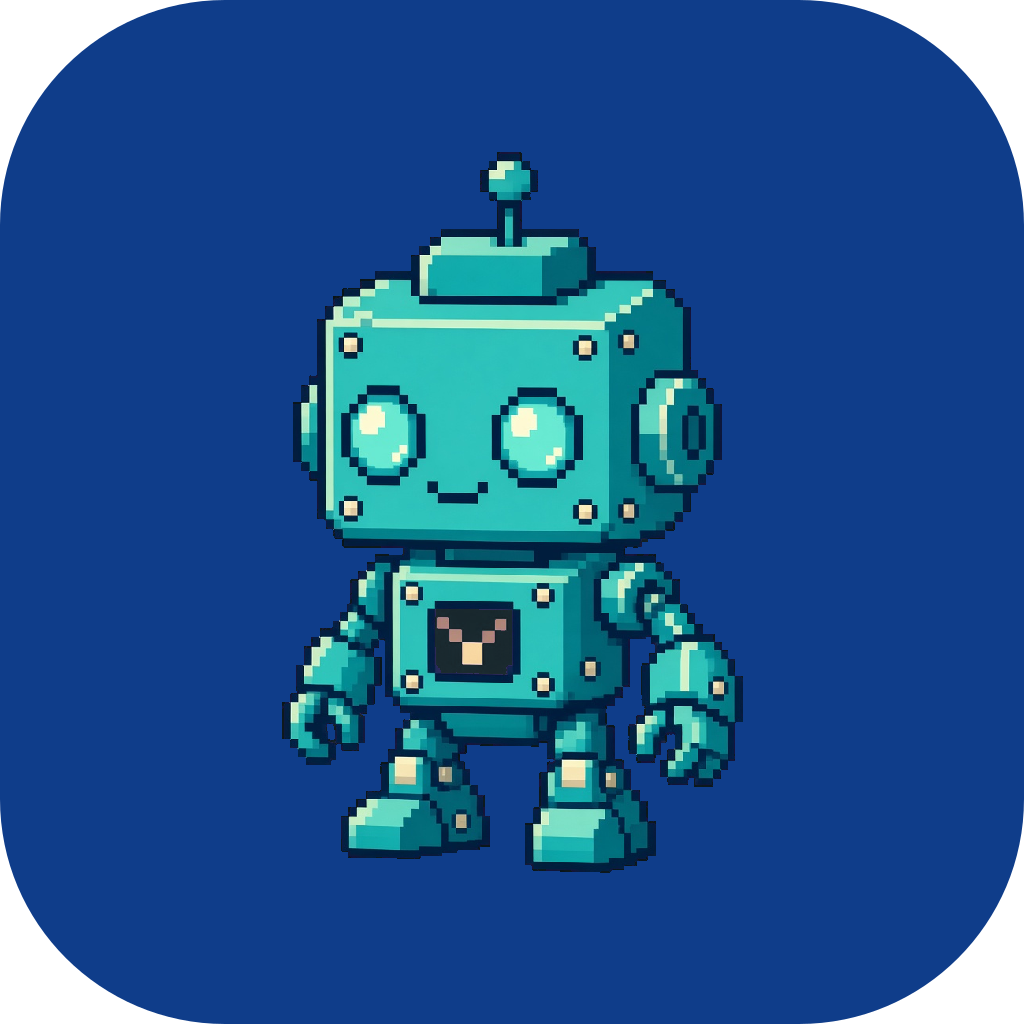
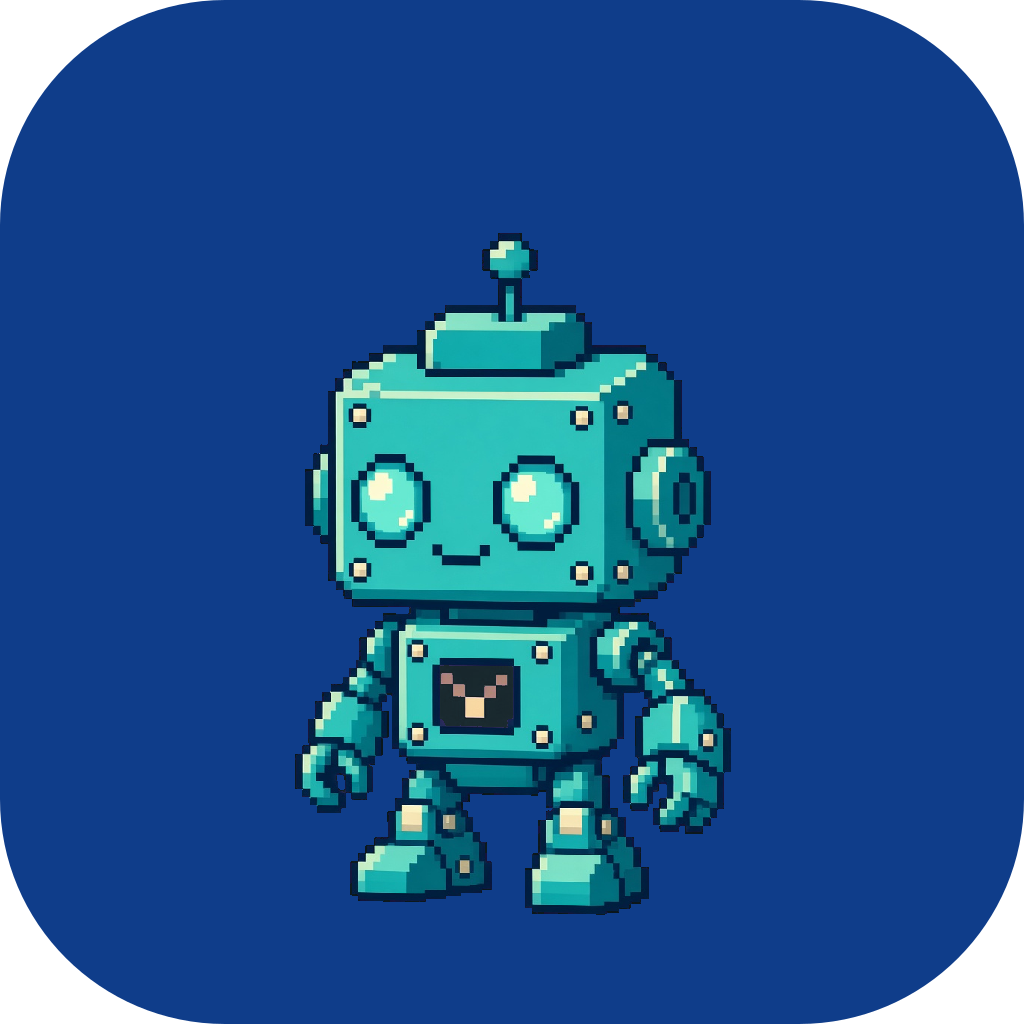
Add the beanie: first hat layer, fitted to every character via anchors
Grok-drawn beanie keyed off magenta, tight-cropped so its bottom edge is the
brim, defringed. New hat layer (none 60 / beanie 40) sits on the character
hat anchor at 1.1x width sunk 28%. Characters now draw at 72% of the canvas
nudged down 6% for headroom; anchor overlays clip to the canvas. Page shows
anchor layers and the 'none' trait. 24 unique combos.

Changed region(s): [[0.25, 0.125, 0.75, 0.9062]]

diff --git a/site/app.js b/site/app.js
@@ -60,13 +60,13 @@ function updatePreview() {
 }
 for (const layer of info.layers) {
   const block = el("div", { class: "layer-block" },
-    el("h3", {}, title(layer.name), el("small", {}, `${layer.fit}${layer.fit === "contain" ? ` · ${Math.round(layer.scale * 100)}%` : ""} · ${layer.traits.length} trait${layer.traits.length === 1 ? "" : "s"}`)),
+    el("h3", {}, title(layer.name), el("small", {}, `${layer.fit}${layer.fit === "contain" ? ` · ${Math.round(layer.scale * 100)}%` : layer.fit === "anchor" ? ` · on ${layer.on} ${layer.anchor}` : ""} · ${layer.traits.length} trait${layer.traits.length === 1 ? "" : "s"}`)),
     el("div", { class: "chips", role: "group", "aria-label": `${title(layer.name)} traits` },
       layer.traits.map((t) => el("button", {
         type: "button", class: "chip", "data-layer": layer.name, "data-trait": t.key, "aria-pressed": "false",
         onclick: () => { pick[layer.name] = t.key; updatePreview(); },
       },
-        el("img", { src: t.file, alt: "", width: 44, height: 44, loading: "lazy", class: layer.fit === "contain" ? "clear" : "" }),
+        t.file ? el("img", { src: t.file, alt: "", width: 44, height: 44, loading: "lazy", class: layer.fit !== "fill" ? "clear" : "" }) : el("span", { class: "chip-none", "aria-hidden": "true" }, "–"),
         el("span", {}, el("span", { class: "name" }, t.name), el("br"), el("span", { class: "odds" }, `${pct(t.pct)} · w${t.weight}`))))));
   controls.append(block);
 }
@@ -87,18 +87,19 @@ info.layers.forEach((layer, i) => {
       el("h3", {}, `${i + 1}. ${title(layer.name)}`),
       el("span", {}, `fit: ${layer.fit}`),
       layer.fit === "contain" ? el("span", {}, `scale: ${Math.round(layer.scale * 100)}% of canvas`) : "",
+      layer.fit === "anchor" ? el("span", {}, `sits on ${layer.on} anchor "${layer.anchor}" · width ×${layer.widthScale} · overlap ${Math.round(layer.overlap * 100)}%`) : "",
       el("span", {}, `total weight: ${layer.totalWeight}`)),
     el("table", {},
       el("thead", {}, el("tr", {}, el("th", {}, ""), el("th", {}, "Trait"), el("th", {}, "Key"), el("th", { class: "num" }, "Weight"), el("th", { class: "num" }, "Odds"), el("th", {}, ""), el("th", {}, "Size"), el("th", {}, "File"))),
       el("tbody", {}, layer.traits.map((t) => el("tr", {},
-        el("td", {}, el("img", { src: t.file, alt: "", width: 32, height: 32, loading: "lazy", class: layer.fit === "contain" ? "clear" : "" })),
+        el("td", {}, t.file ? el("img", { src: t.file, alt: "", width: 32, height: 32, loading: "lazy", class: layer.fit !== "fill" ? "clear" : "" }) : ""),
         el("td", {}, t.name),
         el("td", {}, el("code", {}, t.key)),
         el("td", { class: "num" }, t.weight),
         el("td", { class: "num" }, pct(t.pct)),
         el("td", {}, el("span", { class: "bar" }, el("i", { style: `width:${t.pct}%` }))),
         el("td", {}, t.dims ? `${t.dims.width}×${t.dims.height}` : "–"),
-        el("td", {}, el("code", {}, t.file))))))));
+        el("td", {}, t.file ? el("code", {}, t.file) : el("span", { class: "muted" }, "absent on this token"))))))));
 });
 
 // ---- collection ----

diff --git a/site/style.css b/site/style.css
@@ -145,3 +145,6 @@ td img { width: 32px; height: 32px; border-radius: 6px; background: var(--plate)
   .builder { grid-template-columns: minmax(0, 5fr) minmax(0, 7fr); gap: 24px; }
   .tokens { grid-template-columns: repeat(6, 1fr); }
 }
+
+.chip-none { width: 44px; height: 44px; border-radius: 8px; border: 1px dashed var(--line); display: grid; place-items: center; color: var(--muted); }
+.muted { color: var(--muted); }

diff --git a/README.md b/README.md
@@ -17,6 +17,7 @@ plate `#0F3D8A`, no glow. Together they are the CCLU app icon.
 | -------------------------- | ------------------------------------------------------ |
 | `layers/background/*.png`  | Background panes, 1024x1024, rounded plate with alpha. |
 | `layers/character/*.png`   | Characters on transparent backgrounds.                 |
+| `layers/hat/*.png`         | Hats, tight-cropped so the bottom edge is the brim.    |
 | `layers/layers.json`       | Layer order, trait names, character scale.             |
 | `scripts/compose.mjs`      | Composites a character onto a background into `out/`.  |
 | `scripts/generate.mjs`     | Builds the collection: weighted draws, PNG + metadata. |
@@ -54,7 +55,8 @@ CCLU preview proxy.
 npm install
 npm run compose                      # squid on ink-blue -> out/
 npm run compose -- squid ink-glow-grid
-npm run compose:all                  # every background x character
+npm run compose -- robot ink-blue beanie
+npm run compose:all                  # every background x character, plus every hat on ink-blue
 ```
 
 ## Generate the collection
@@ -141,6 +143,20 @@ the turquoise squid) change, so eyes, suckers and outlines stay put.
 | `squid-grey` | 15     | Desaturated slate grey.                |
 | `squid-gold` | 10     | Warm gold, the rare one.               |
 | `robot`      | 30     | Boxy turquoise robot, same palette.    |
+
+## Hats
+
+| Trait    | Weight | Look                                            |
+| -------- | ------ | ----------------------------------------------- |
+| `none`   | 60     | No hat.                                         |
+| `beanie` | 40     | Navy knit beanie, turquoise brim stripe, cream pom. |
+
+Hats sit on each character's `hat` anchor (width ×1.1, sunk 28% of their
+height), so the same PNG fits the squid's mantle and the robot's head.
+Characters are drawn at 72% of the canvas and nudged down 6% to leave headroom.
+
+![squid in a beanie](examples/squid-beanie-on-ink-blue.png)
+![robot in a beanie](examples/robot-beanie-on-ink-blue.png)
 
 ## Style rules
 
